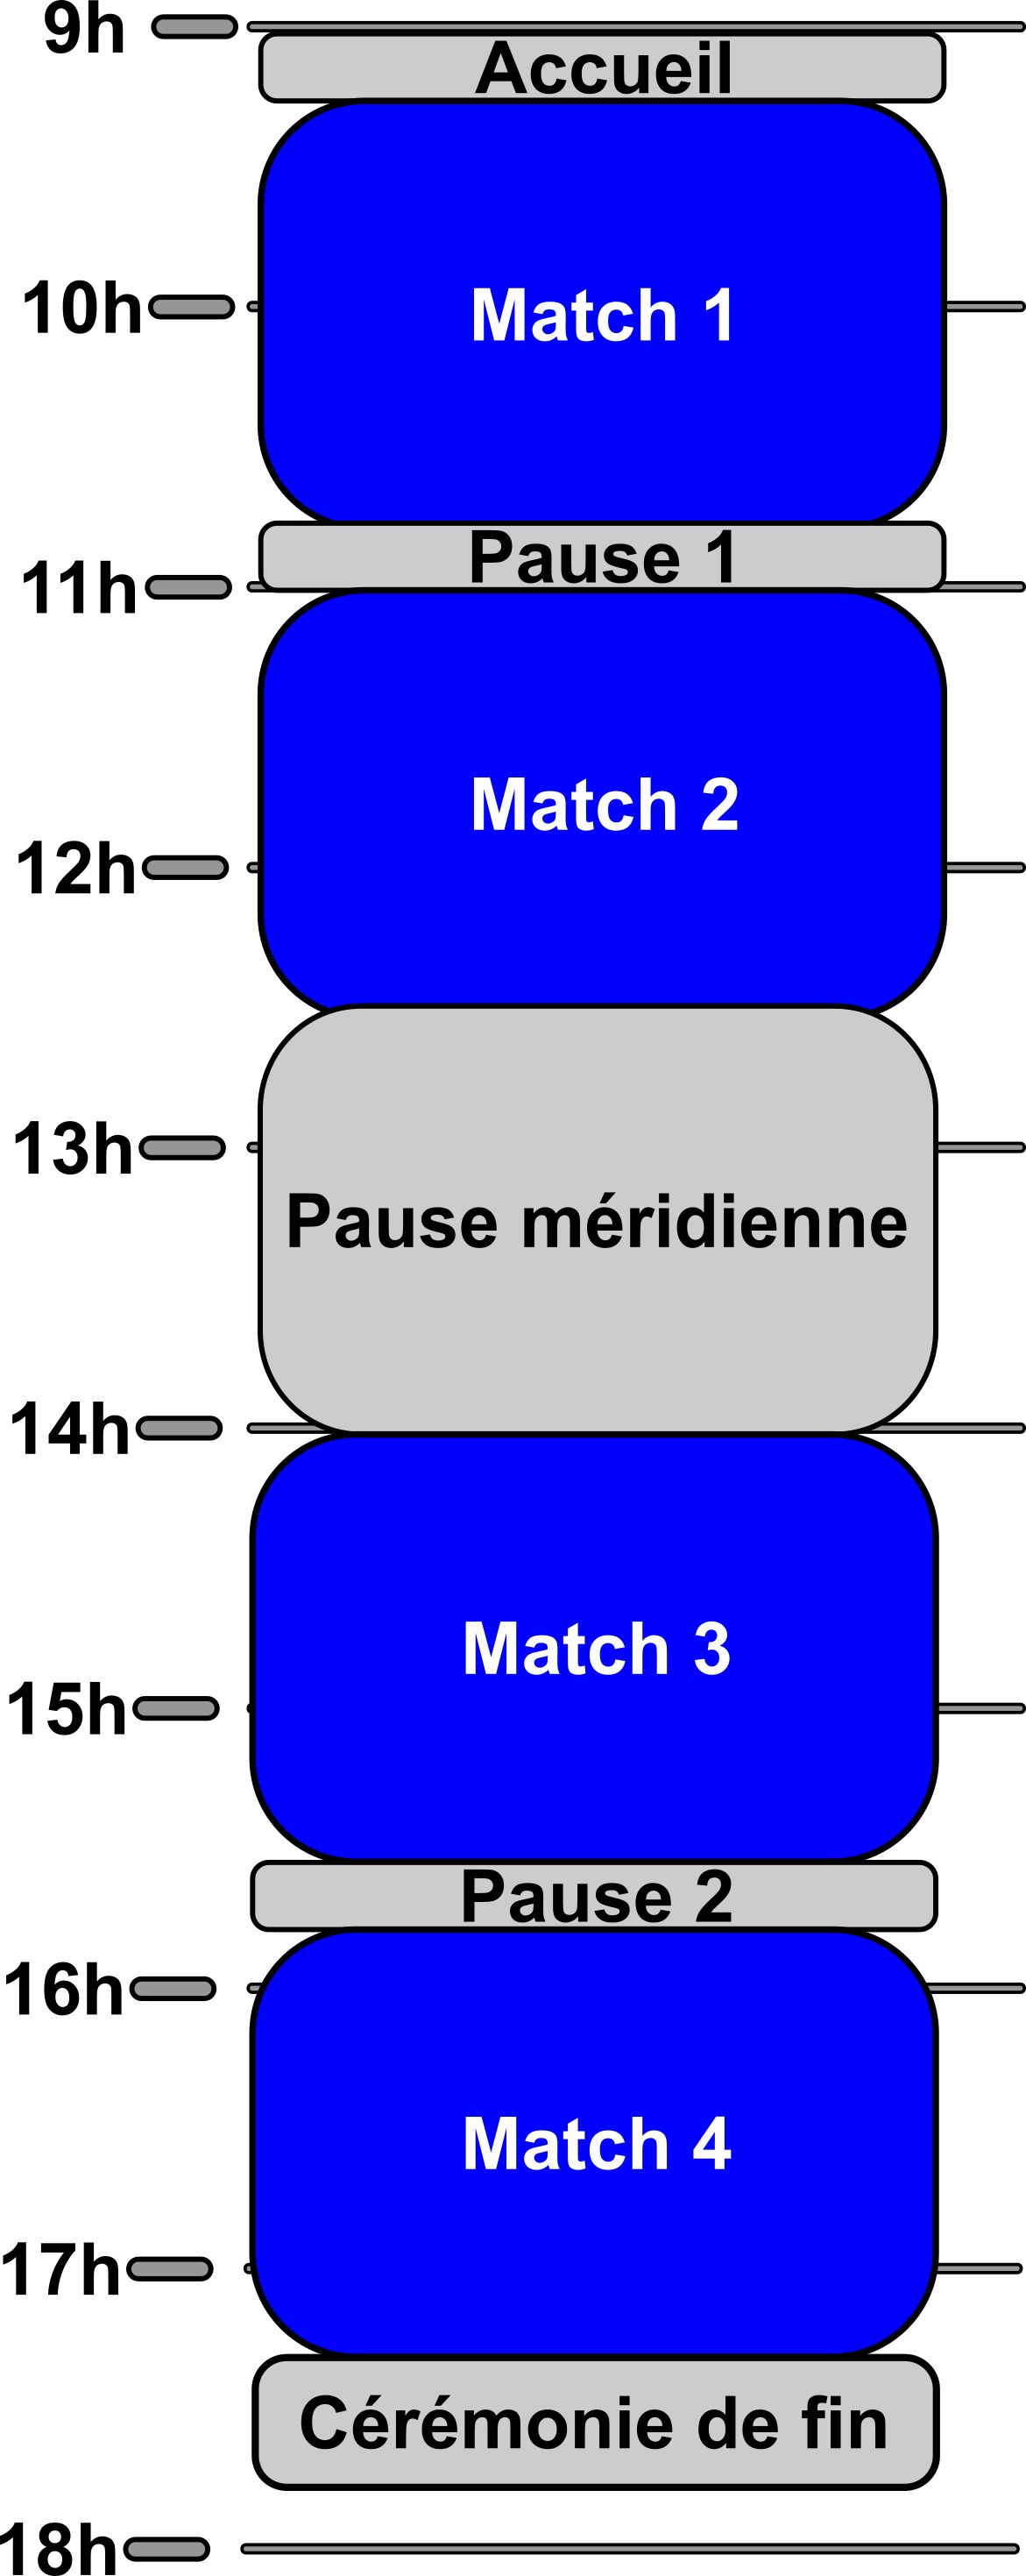
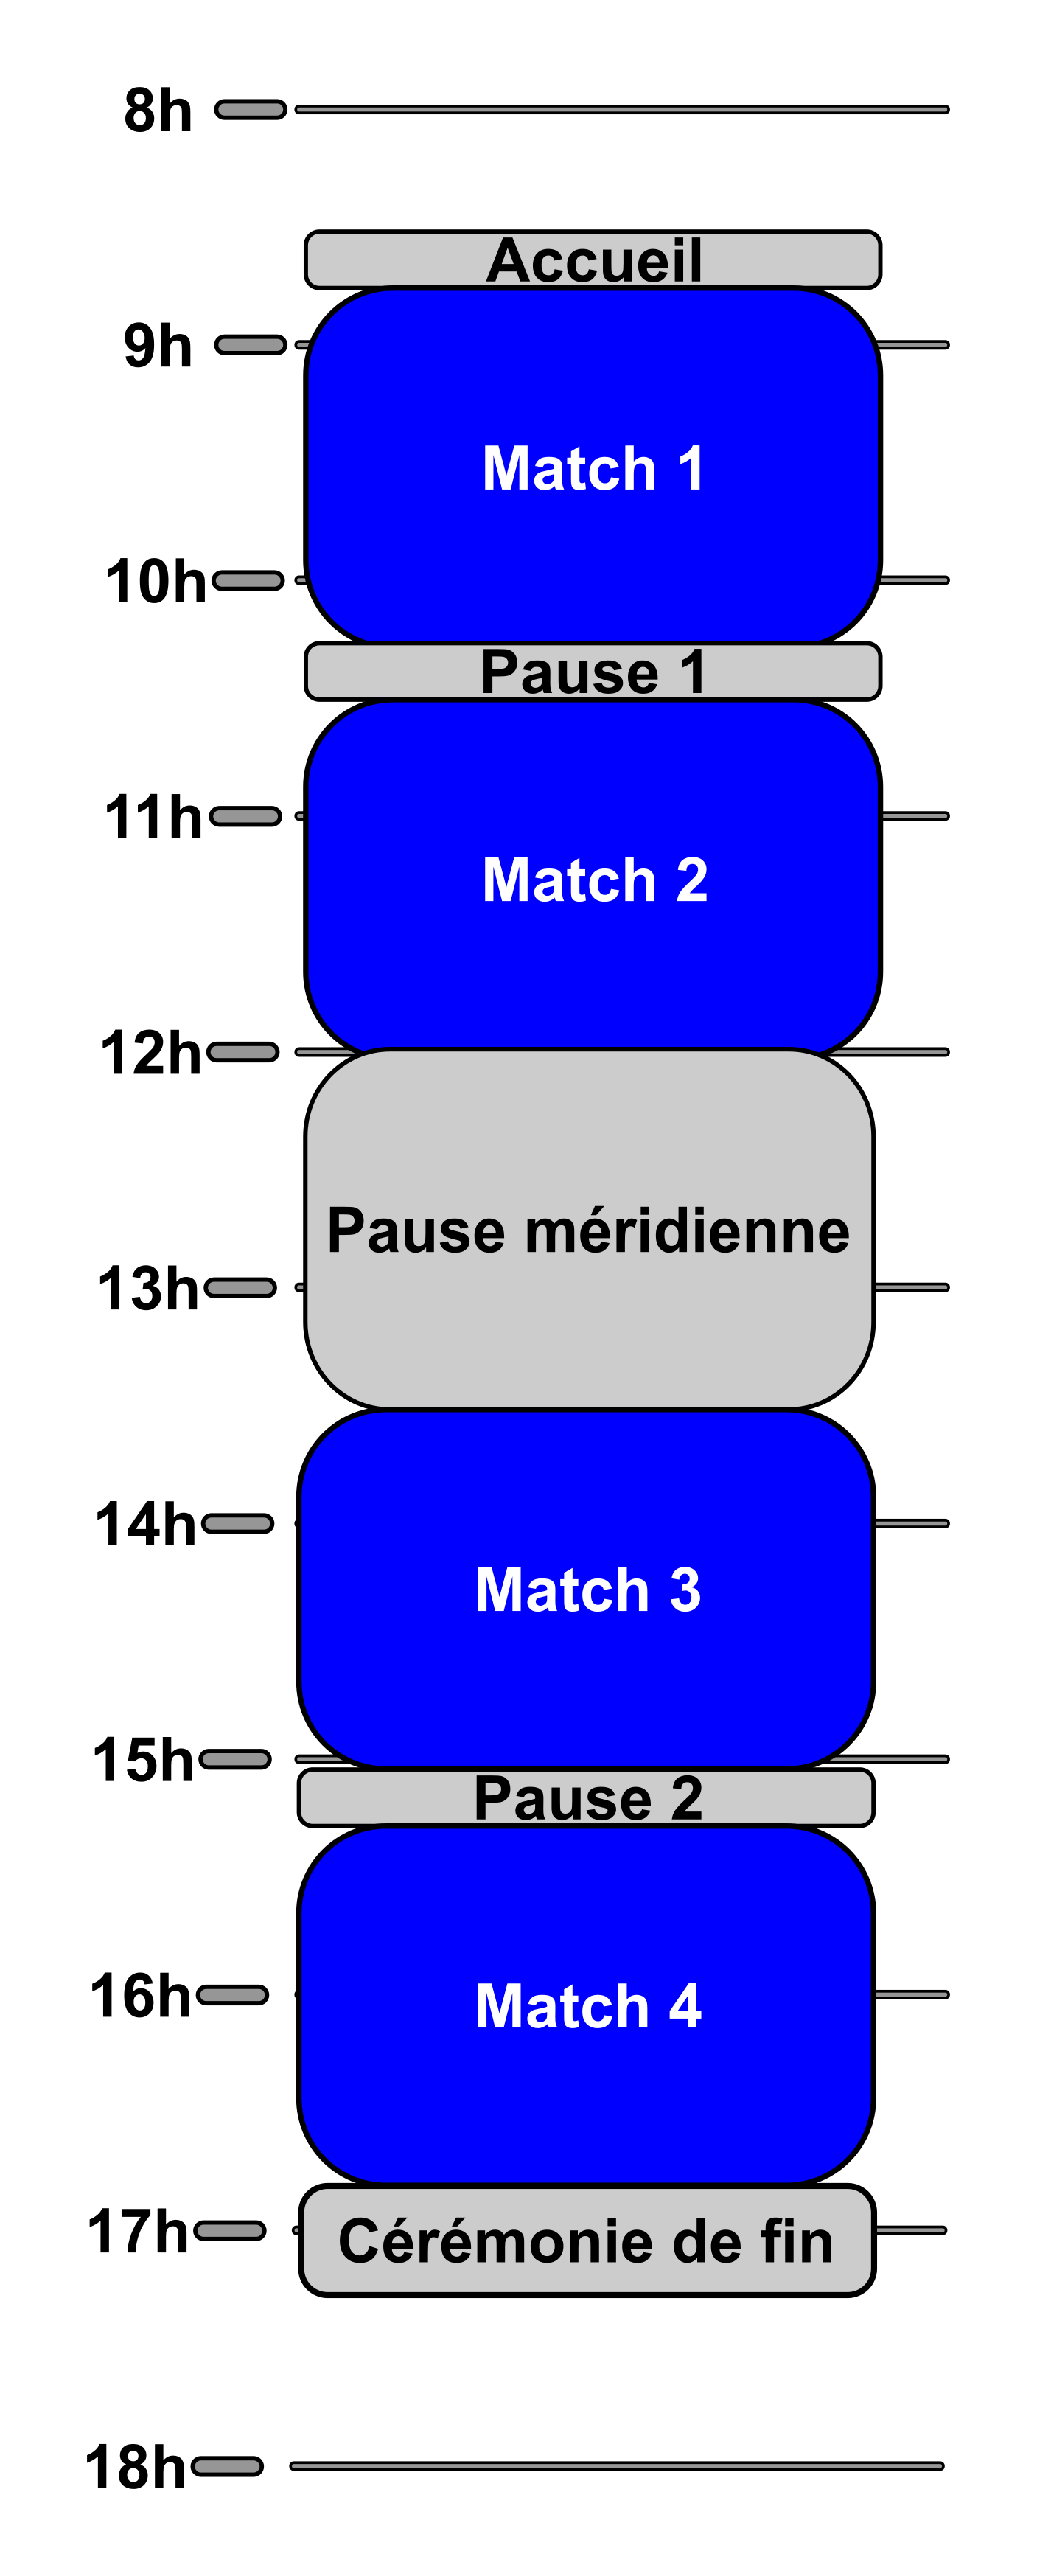
Initialise la v4.1.0.

diff --git a/index.html b/index.html
@@ -47,42 +47,32 @@
         <img class="hide-on-large-only" src="img/banner-small.png" alt="Gones Bowl banner">
     </div>
 
-    <!-- -->
+    <!--
     <div class="center-align">
         <img src="img/annule.png" alt="Annulé">
     </div>
 
     <div class="section">Nous sommes navrés, mais suite à la faible participation pour le Gones Bowl 3.3, nous sommes obligés d'annuler l'événement.</b></div>
-    <!-- -->
+    -->
 
     <div class="center-align">
         <img src="img/historique/collage-gones-bowl-2024.png" alt="Gones Bowl">
     </div>
 
-    <div class="section">Bienvenue à la série de la troisième édition du <b>tournoi de Gones Bowl!</b></div>
+    <div class="section">Bienvenue à la série de la quatrième édition du <b>tournoi de Gones Bowl!</b></div>
 
     <div class="section">Nous proposons ces événements dans le but de faire découvrir ou redécouvrir l’univers du <b>Blood Bowl</b>.
         Ce tournoi propose aux coach.e.s occasionnel.le.s de Blood Bowl de vivre l’expérience d’un tournoi en une journée grâce à des matchs rapides de <b>Blood Bowl à Sept</b>. Les coach.e.s de tout âge sont les bienvenus.
         Le rythme et le format du tournoi sont adaptés à des coach.e.s débutants.</div>
 
-    <div class="section">
-        Attention, Gones Bowl évolue :
-        <ul>
-            <li>Plusieurs événements dans l'année ;</li>
-            <li>Passage du samedi au dimanche ;</li>
-            <li>Changement de lieu ;</li>
-            <li>Prise en compte des inscriptions NAF.</li>
-        </ul>
-    </div>
-
-    <div class="section">Le troisième événement aura lieu le <b>dimanche 7 juin 2026</b> de <b>9h00 à 17h45</b> à la <b>Maison de Quartier Villette-Paul Bert à Lyon</b>.</div>
+    <div class="section">Le premier événement aura lieu le <b>samedi 12 septembre 2026</b> de <b>8h30 à 17h15</b> à la <b>Guilde des Figurinistes à Lyon</b>.</div>
 </div>
 
-<!--div class="container parchment">
+<div class="container parchment">
     <div class="center">
-        <a href="https://pole9.fr" target="_blank"><img src="img/pole9.png" alt="Pôle 9"></a>
+        <a href="https://www.la-guilde-des-figurinistes.fr/" target="_blank"><img src="img/la-guide-des-figurinistes.png" alt="La Guilde des Figurinistes"></a>
     </div>
-</div-->
+</div>
 
 <div class="container parchment">
     <div class="section">
@@ -111,15 +101,14 @@
 
                     <ul>
                         <li>Un tournoi de Blood Bowl à Sept (<b>parties plus courtes</b>).</li>
-                        <li>Un tournoi organisé sur 1 seule journée (le <b>dimanche 7 juin 2026</b>).</li>
+                        <li>Un tournoi organisé sur 1 seule journée (le <b>samedi 12 septembre 2026</b>).</li>
                         <li>4 matchs seulement ! Durée des matchs environ <b>1 heure et quart</b>. Pause entre les matchs.</li>
                         <li>Un <b>ruleset minimaliste</b> et si besoin un accompagnement pour vous aider à composer votre équipe.</li>
                         <li>Des terrains et des aides de jeu à disposition le jour J si besoin.</li>
                         <li>Des équipes (figurines + feuille d’équipe déjà composée) si vous connaissez les règles mais n’avez pas de figurine.</li>
                         <li>Un tournoi <b>enregistré NAF</b>; il n’y aura pas d'enregistrement à la NAF sur place, mais les matchs affiliés vs non affiliés sont possibles.</li>
                         <li>Un <a href="pdf/v3/Kit_Tournoi_Gones_Bowl_v3.3.0.pdf" target="_blank">kit de présentation détaillé à télécharger</a>.</li>
-                        <li>Un <b>tournoi modulable</b> selon le nombre de participants (paliers à 8, 16 ou 32 participants).</li>
-                        <li>Un <b>PAF de 2€</b>.</li>
+                        <li>Un <b>PAF de 17€</b>, comprenant un petit déjeuner, une boison, et le repas du midi.</li>
                         <li>Un état d’esprit orienté pour les non experts : Venez pour <b>vous amuser</b> et <b>faire grandir la communauté du Blood Bowl !</b></li>
                 </div>
             </div>
@@ -252,7 +241,7 @@
         <h2>Nous trouver</h2>
 
         <div class="center">
-            <iframe src="https://www.google.com/maps/embed?pb=!1m18!1m12!1m3!1d2783.7210595899764!2d4.8682768!3d45.756737799999996!2m3!1f0!2f0!3f0!3m2!1i1024!2i768!4f13.1!3m3!1m2!1s0x47f4ea79219eb08f%3A0x9fbf03b2ca65c973!2sMaison%20de%20Quartier%20la%20Villette%20Paul%20Bert!5e0!3m2!1sfr!2sfr!4v1752670027987!5m2!1sfr!2sfr" width="600" height="450" style="border:0;" allowfullscreen="" loading="lazy" referrerpolicy="no-referrer-when-downgrade"></iframe>
+            <iframe src="https://www.google.com/maps/embed?pb=!1m18!1m12!1m3!1d2782.528564822095!2d4.804323676123104!3d45.78063747108088!2m3!1f0!2f0!3f0!3m2!1i1024!2i768!4f13.1!3m3!1m2!1s0x47f4eb05509ff50b%3A0xf467420b2f1bbc44!2sLa%20Guilde%20des%20Figurinistes!5e0!3m2!1sfr!2sfr!4v1782422242630!5m2!1sfr!2sfr" width="600" height="450" style="border:0;" allowfullscreen="" loading="lazy" referrerpolicy="strict-origin-when-cross-origin"></iframe>
         </div>
     </div>
 </div>